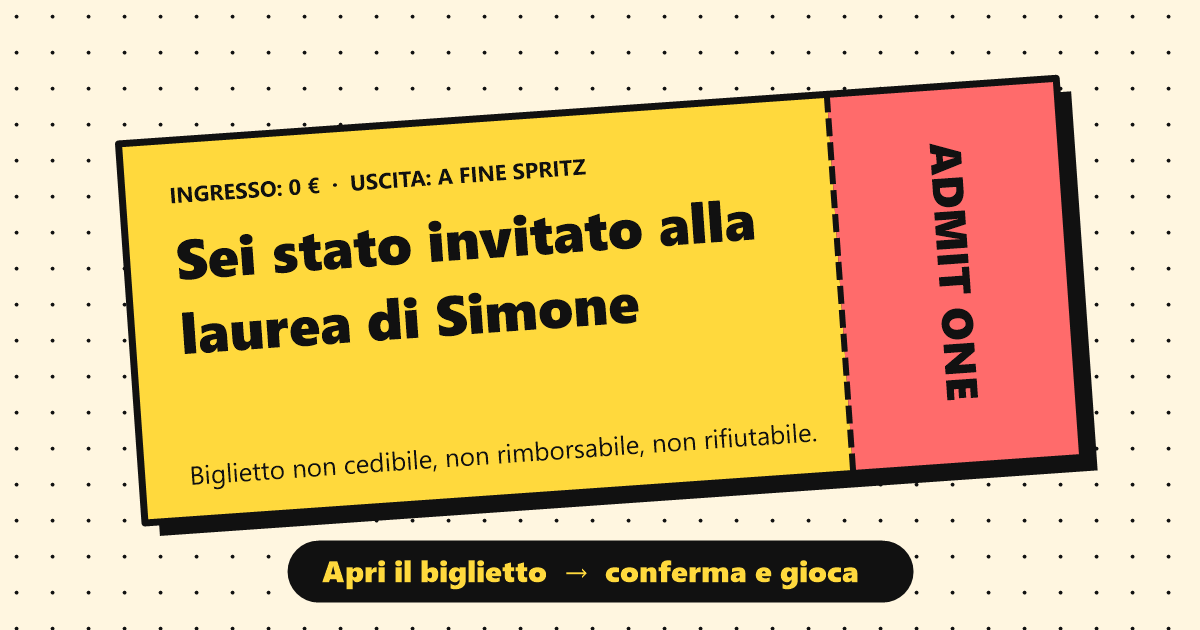
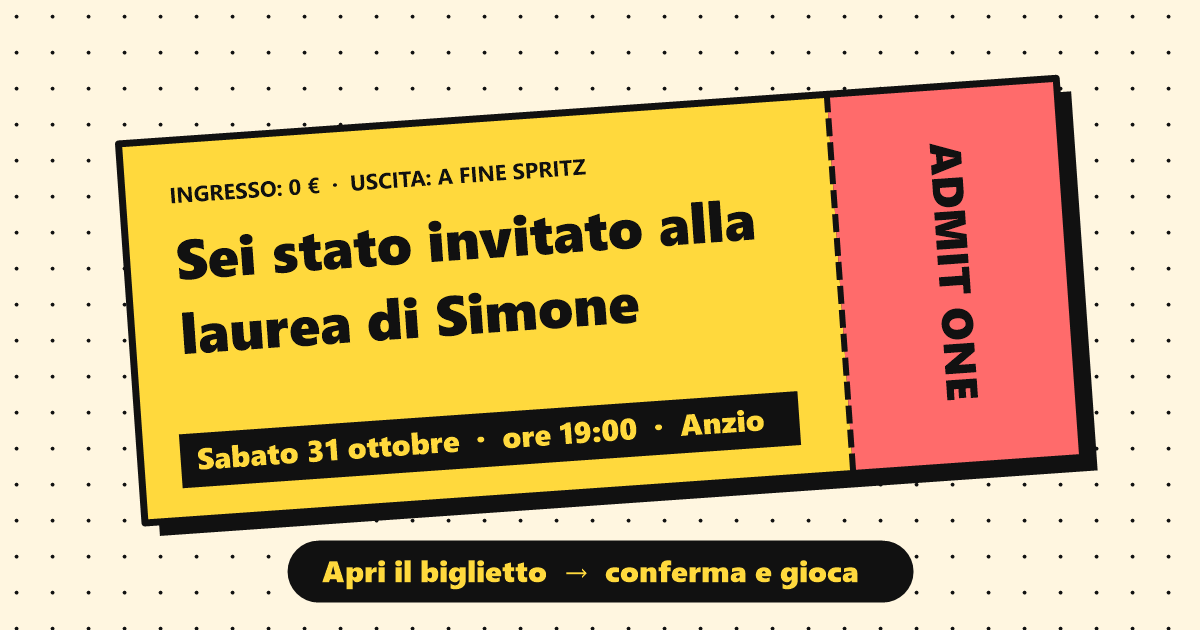
Anteprima aggiornata: README con i dati della festa e immagine con la data

Changed region(s): [[0.1233, 0.6032, 0.6783, 0.7841]]

diff --git a/index.html b/index.html
@@ -4,15 +4,16 @@
   <meta charset="utf-8">
   <meta name="viewport" content="width=device-width, initial-scale=1">
   <title>Sei invitato alla laurea di Simone</title>
-  <meta name="description" content="Sei stato invitato alla festa di laurea. Conferma la presenza prima che il festeggiato si offenda.">
+  <meta name="description" content="Festa di laurea di Simone: sabato 31 ottobre, ore 19:00, Casale Valle Palomba (Anzio). Conferma la presenza prima che il festeggiato si offenda.">
   <meta name="robots" content="noindex, nofollow">
   <meta name="theme-color" content="#FFD93D">
   <!-- Anteprima del link su WhatsApp, Instagram, Telegram -->
   <meta property="og:type" content="website">
   <meta property="og:url" content="https://simonefusco2001.github.io/festa-laurea/">
   <meta property="og:title" content="🎓 Sei stato invitato alla laurea di Simone">
-  <meta property="og:description" content="Apri il biglietto, conferma la presenza e sfida gli altri alla corsa alla laurea: chi fa più punti vince un premio alla festa.">
-  <meta property="og:image" content="https://simonefusco2001.github.io/festa-laurea/og-image.png">
+  <meta property="og:description" content="Sabato 31 ottobre, ore 19:00, Casale Valle Palomba (Anzio). Apri il biglietto, conferma entro il 23 ottobre e sfida gli altri alla corsa alla laurea: chi fa più punti vince un premio.">
+  <meta property="og:image:alt" content="Biglietto giallo: sei stato invitato alla laurea di Simone, sabato 31 ottobre ore 19:00 ad Anzio">
+  <meta property="og:image" content="https://simonefusco2001.github.io/festa-laurea/og-image.png?v=2">
   <meta property="og:image:width" content="1200">
   <meta property="og:image:height" content="630">
   <meta property="og:locale" content="it_IT">

diff --git a/README.md b/README.md
@@ -4,19 +4,25 @@
 
 **Questo è il link da condividere con gli invitati.**
 
-[![Anteprima dell'invito](og-image.png)](https://simonefusco2001.github.io/festa-laurea/)
+[![Anteprima dell'invito: sabato 31 ottobre, ore 19:00, Anzio](og-image.png)](https://simonefusco2001.github.io/festa-laurea/)
 
-Invito online alla mia festa di laurea, costruito come una landing page di marketing che ha un solo obiettivo di conversione: farti venire alla festa.
+| 📅 Quando | ⏰ Ora | 📍 Dove | ✅ Rispondi entro |
+|---|---|---|---|
+| Sabato 31 ottobre 2026 | 19:00 | [Casale Valle Palomba](https://www.casalevallepalomba.it/), Via Nettunense, Anzio (RM) | 23 ottobre |
+
+Invito online alla mia festa di laurea (la seconda, *di nuovo*), costruito come una landing page di marketing con un solo obiettivo di conversione: farti venire alla festa. Tema della serata: Halloween, con gadget obbligatorio.
 
 ## Cosa trovi nel sito
 
 | Sezione | Descrizione |
 |---|---|
 | 🎟 Biglietto d'ingresso | La prima schermata: un biglietto "Admit one" da strappare per aprire l'invito |
-| 🕹 La corsa alla laurea | Minigioco: l'omino col cappello da laureato salta tesi, esami e professori. Il punteggio più alto vince un premio consegnato alla festa |
-| 📋 Info, location, programma | Data, orario, dress code, mappa e scaletta della serata |
+| 🏆 La corsa alla laurea | Minigioco a livelli: l'omino col cappello da laureato salta professori, sessioni, CRM e strategie paid, schiva deadline e corone d'alloro. Classifica del campionato e premio consegnato alla festa |
+| 📋 Specifiche tecniche | Data, ora, location, cosa portare e dress code (Birkenstock vietate) |
+| 📍 Location | Mappa, foto e link al Casale Valle Palomba |
+| 🕖 Programma | Dall'aperitivo delle 19 alla proclamazione del campione, con una sorpresa in mezzo (si suderà) |
 | ✅ Conferma la presenza | RSVP con nome e allergie. Chi prova a dire di no dovrà superare qualche domanda di troppo |
-| 🎁 Lista regali, versione onesta | Classifica dei regali più e meno apprezzati, con IBAN visibile solo a chi ha confermato |
+| 🎁 Lista regali, versione onesta | Regali da evitare, idee "per restare umili" e IBAN visibile solo a chi ha confermato |
 
 ## Come funziona
 
@@ -27,10 +33,13 @@ Invito online alla mia festa di laurea, costruito come una landing page di marke
 | [`css/style.css`](css/style.css) | Stile neobrutalism: giallo, corallo, nero e crema, bordi spessi e ombre nette |
 | [`js/config.js`](js/config.js) | Tutti i dati dell'evento in un unico file |
 | [`js/game.js`](js/game.js) | Il minigioco "La corsa alla laurea" |
-| [`apps-script/Code.gs`](apps-script/Code.gs) | Backend su Google Sheet: risposte, punteggi e IBAN protetto |
+| [`apps-script/Code.gs`](apps-script/Code.gs) | Backend su Google Sheet: risposte, punteggi, classifica e IBAN protetto |
+| [`img/`](img/) | Sticker, meme e foto della location |
 | [`docs/SETUP.md`](docs/SETUP.md) | Istruzioni tecniche per configurare Google Sheet e aggiornare il sito |
 
-HTML, CSS e JavaScript puro, senza framework, pubblicato gratis con GitHub Pages. Le risposte finiscono in un Google Sheet privato del festeggiato.
+HTML, CSS e JavaScript puro, senza framework, ottimizzato per smartphone e pubblicato gratis con GitHub Pages. Le risposte finiscono in un Google Sheet privato del festeggiato.
+
+Foto della location: [casalevallepalomba.it](https://www.casalevallepalomba.it/).
 
 ## Contatti
 
